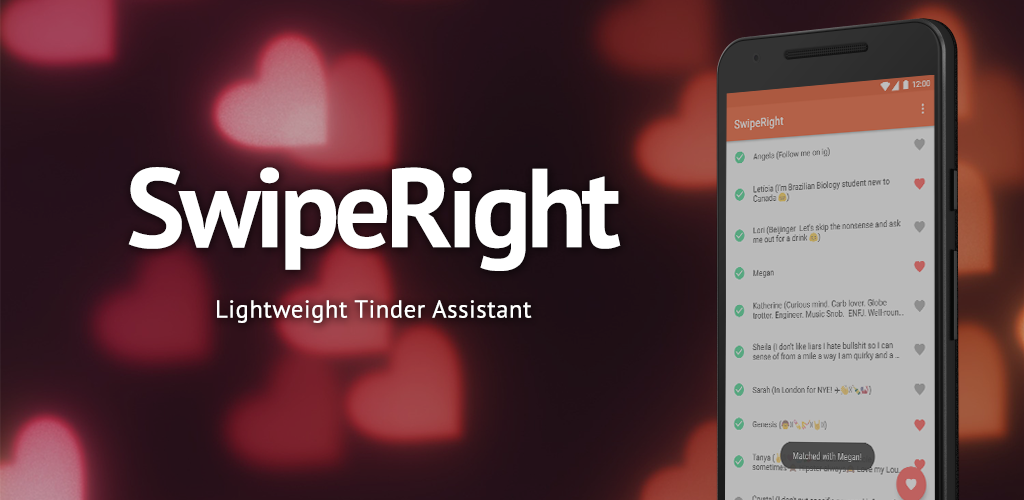
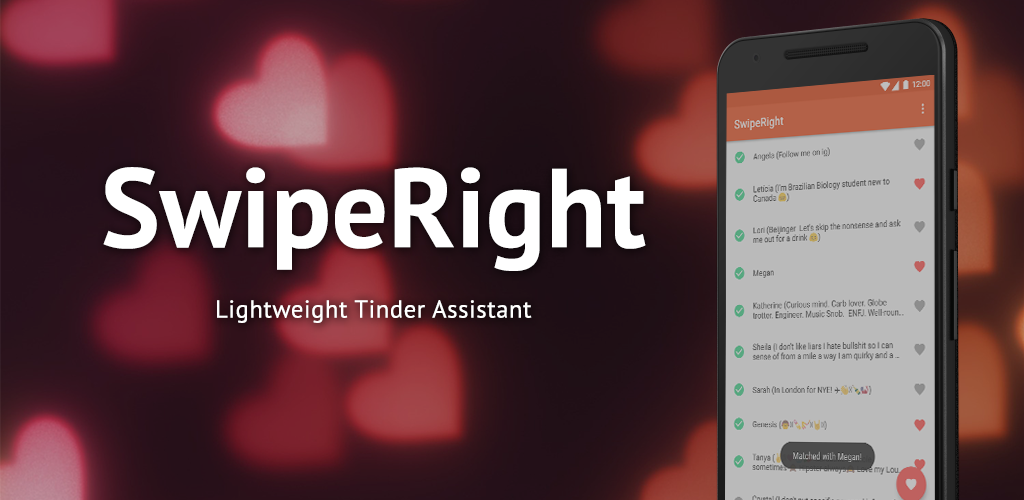
Updated feature graphic and fixed auth/rec logic being broken on rotation

Changed region(s): [[0.0938, 0.33, 0.625, 0.54]]

diff --git a/app/src/main/java/com/ekc/swiperight/ui/main/MainActivity.java b/app/src/main/java/com/ekc/swiperight/ui/main/MainActivity.java
@@ -74,7 +74,13 @@ public class MainActivity extends BaseActivity implements MainView {
     list.setItemAnimator(null);
     fbLoginButton.registerCallback(callbackManager, presenter);
     fbLoginButton.setLoginBehavior(LoginBehavior.WEB_ONLY);
-    presenter.auth();
+
+    if (savedInstanceState == null) {
+      // Only do a full auth cycle if not loading from savedInstanceState
+      presenter.auth();
+    } else {
+      presenter.getRecommendations();
+    }
   }
 
   @Override public boolean onOptionsItemSelected(MenuItem item) {
